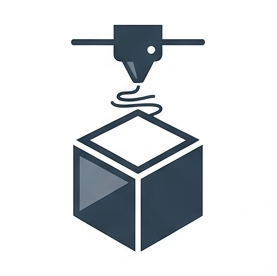
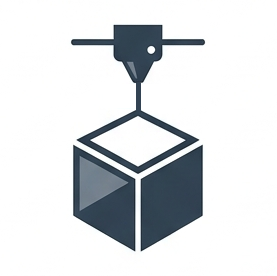
Actualiza el icono de Impresión 3D en CÓDEX.

Changed region(s): [[0.4043, 0.2899, 0.6065, 0.4348]]

diff --git a/asistencia-ia.html b/asistencia-ia.html
@@ -4,9 +4,9 @@
     <meta charset="utf-8" />
     <meta name="viewport" content="width=device-width, initial-scale=1" />
     <title>T·I·D·Ahub · Declaración responsable · Cursor</title>
-    <link rel="stylesheet" href="./styles.css?v=1.10.17" />
+    <link rel="stylesheet" href="./styles.css?v=1.10.18" />
     <script>
-      window.MYWEB_ASSET_V = "1.10.17";
+      window.MYWEB_ASSET_V = "1.10.18";
     </script>
     <script>
       (function () {
@@ -15,7 +15,7 @@
         document.head.appendChild(s);
       })();
     </script>
-    <script src="./brand-logo-sync.js?v=1.10.17" defer></script>
+    <script src="./brand-logo-sync.js?v=1.10.18" defer></script>
   </head>
   <body class="theme-light privacy-page ai-assist-page">
     <header>
@@ -36,7 +36,7 @@
           <div class="header-nav-buttons">
             <a
               class="home-btn header-home-btn privacy-header-back"
-              href="./index.html?v=1.10.17"
+              href="./index.html?v=1.10.18"
               aria-label="Volver a inicio"
               id="ai-assist-back-home"
             >← VOLVER</a>
@@ -152,11 +152,11 @@
           <span class="footer-sep" aria-hidden="true">|</span>
           <span>PhD.Eng. Francisco Carnero Rodríguez</span>
           <span class="footer-sep" aria-hidden="true">|</span>
-          <span id="site-version">v1.10.17</span>
+          <span id="site-version">v1.10.18</span>
           <span class="footer-sep" aria-hidden="true">|</span>
-          <a href="./privacidad.html?v=1.10.17" class="footer-privacy-link">Privacidad y protección de datos</a>
+          <a href="./privacidad.html?v=1.10.18" class="footer-privacy-link">Privacidad y protección de datos</a>
           <span class="footer-sep" aria-hidden="true">|</span>
-          <a href="./asistencia-ia.html?v=1.10.17" class="footer-ai-link">Asistencia IA</a>
+          <a href="./asistencia-ia.html?v=1.10.18" class="footer-ai-link">Asistencia IA</a>
         </div>
       </div>
     </footer>
@@ -193,7 +193,7 @@
           applyMeta();
         }
         function loadData(bust, dataJsText) {
-          bust = String(bust || window.MYWEB_ASSET_V || "1.10.17");
+          bust = String(bust || window.MYWEB_ASSET_V || "1.10.18");
           window.MYWEB_ASSET_V = bust;
           if (typeof window.MYWEB_wireVersionedLinks === "function") {
             window.MYWEB_wireVersionedLinks(bust);
@@ -224,7 +224,7 @@
           start(d.version || window.MYWEB_ASSET_V, d.dataJsText || "");
         });
         setTimeout(function () {
-          start(window.MYWEB_ASSET_V || "1.10.17", window.__MYWEB_DATA_JS_TEXT__ || "");
+          start(window.MYWEB_ASSET_V || "1.10.18", window.__MYWEB_DATA_JS_TEXT__ || "");
         }, 2500);
       })();
     </script>

diff --git a/privacidad.html b/privacidad.html
@@ -4,9 +4,9 @@
     <meta charset="utf-8" />
     <meta name="viewport" content="width=device-width, initial-scale=1" />
     <title>T·I·D·Ahub · Privacidad</title>
-    <link rel="stylesheet" href="./styles.css?v=1.10.17" />
+    <link rel="stylesheet" href="./styles.css?v=1.10.18" />
     <script>
-      window.MYWEB_ASSET_V = "1.10.17";
+      window.MYWEB_ASSET_V = "1.10.18";
     </script>
     <script>
       (function () {
@@ -15,7 +15,7 @@
         document.head.appendChild(s);
       })();
     </script>
-    <script src="./brand-logo-sync.js?v=1.10.17" defer></script>
+    <script src="./brand-logo-sync.js?v=1.10.18" defer></script>
   </head>
   <body class="theme-light privacy-page">
     <header>
@@ -36,7 +36,7 @@
           <div class="header-nav-buttons">
             <a
               class="home-btn header-home-btn privacy-header-back"
-              href="./index.html?v=1.10.17"
+              href="./index.html?v=1.10.18"
               aria-label="Volver a inicio"
               id="privacy-back-home"
             >← VOLVER</a>
@@ -245,11 +245,11 @@
           <span class="footer-sep" aria-hidden="true">|</span>
           <span>PhD.Eng. Francisco Carnero Rodríguez</span>
           <span class="footer-sep" aria-hidden="true">|</span>
-          <span id="site-version">v1.10.17</span>
+          <span id="site-version">v1.10.18</span>
           <span class="footer-sep" aria-hidden="true">|</span>
-          <a href="./privacidad.html?v=1.10.17" class="footer-privacy-link">Privacidad y protección de datos</a>
+          <a href="./privacidad.html?v=1.10.18" class="footer-privacy-link">Privacidad y protección de datos</a>
           <span class="footer-sep" aria-hidden="true">|</span>
-          <a href="./asistencia-ia.html?v=1.10.17" class="footer-ai-link">Asistencia IA</a>
+          <a href="./asistencia-ia.html?v=1.10.18" class="footer-ai-link">Asistencia IA</a>
         </div>
       </div>
     </footer>
@@ -287,7 +287,7 @@
           applyMeta();
         }
         function loadData(bust, dataJsText) {
-          bust = String(bust || window.MYWEB_ASSET_V || "1.10.17");
+          bust = String(bust || window.MYWEB_ASSET_V || "1.10.18");
           window.MYWEB_ASSET_V = bust;
           if (typeof window.MYWEB_wireVersionedLinks === "function") {
             window.MYWEB_wireVersionedLinks(bust);
@@ -318,7 +318,7 @@
           start(d.version || window.MYWEB_ASSET_V, d.dataJsText || "");
         });
         setTimeout(function () {
-          start(window.MYWEB_ASSET_V || "1.10.17", window.__MYWEB_DATA_JS_TEXT__ || "");
+          start(window.MYWEB_ASSET_V || "1.10.18", window.__MYWEB_DATA_JS_TEXT__ || "");
         }, 2500);
 
         function isVerticallyScrollable(el) {

diff --git a/index.html b/index.html
@@ -4,9 +4,9 @@
     <meta charset="utf-8" />
     <meta name="viewport" content="width=device-width, initial-scale=1" />
     <title>T·I·D·Ahub</title>
-    <link rel="stylesheet" href="./styles.css?v=1.10.17" />
+    <link rel="stylesheet" href="./styles.css?v=1.10.18" />
     <script>
-      window.MYWEB_ASSET_V = "1.10.17";
+      window.MYWEB_ASSET_V = "1.10.18";
     </script>
     <script>
       (function () {
@@ -231,11 +231,11 @@
           <span class="footer-sep" aria-hidden="true">|</span>
           <span>PhD.Eng. Francisco Carnero Rodríguez</span>
           <span class="footer-sep" aria-hidden="true">|</span>
-          <span id="site-version">v1.10.17</span>
+          <span id="site-version">v1.10.18</span>
           <span class="footer-sep" aria-hidden="true">|</span>
-          <a href="./privacidad.html?v=1.10.17" class="footer-privacy-link">Privacidad y protección de datos</a>
+          <a href="./privacidad.html?v=1.10.18" class="footer-privacy-link">Privacidad y protección de datos</a>
           <span class="footer-sep" aria-hidden="true">|</span>
-          <a href="./asistencia-ia.html?v=1.10.17" class="footer-ai-link">Asistencia IA</a>
+          <a href="./asistencia-ia.html?v=1.10.18" class="footer-ai-link">Asistencia IA</a>
         </div>
       </div>
     </footer>
@@ -280,7 +280,7 @@
             });
         }
         function bootAssets(bust, dataJsText) {
-          bust = String(bust || window.MYWEB_ASSET_V || "1.10.17");
+          bust = String(bust || window.MYWEB_ASSET_V || "1.10.18");
           window.MYWEB_ASSET_V = bust;
           if (typeof window.MYWEB_wireVersionedLinks === "function") {
             window.MYWEB_wireVersionedLinks(bust);
@@ -324,7 +324,7 @@
         });
         // Si version-boot falla o tarda, no bloquear la web.
         setTimeout(function () {
-          start(window.MYWEB_ASSET_V || "1.10.17", window.__MYWEB_DATA_JS_TEXT__ || "");
+          start(window.MYWEB_ASSET_V || "1.10.18", window.__MYWEB_DATA_JS_TEXT__ || "");
         }, 2500);
       })();
     </script>

diff --git a/data.js b/data.js
@@ -11,7 +11,7 @@ window.MYWEB_DATA = {
     El pie muestra "v" + version al cargar.
   */
   siteMeta: {
-    version: "1.10.17",
+    version: "1.10.18",
     updated: "2026-11-06",
     assetBust: "",
     /* Temporal: lazo negro (marca de agua) en INICIO. Pon false para quitarlo. */

diff --git a/versions.md b/versions.md
@@ -1,6 +1,6 @@
 # Historial de versiones — T·I·D·A hub
 
-Registro de modificaciones y mejoras desde la publicación inicial (**1.0**) hasta la versión actual del pie (`data.js` → `siteMeta.version`, hoy **1.10.17**).
+Registro de modificaciones y mejoras desde la publicación inicial (**1.0**) hasta la versión actual del pie (`data.js` → `siteMeta.version`, hoy **1.10.18**).
 
 Formato: **MAJOR.MINOR.PATCH** (desde 1.1.0). Fuente de verdad: `data.js`. Documentación alineada en `README.md`, `github_TIDAhub.md`, `content/README.md` e `#_Informe/Informe_MyWeb.tex`.
 
@@ -811,6 +811,10 @@ Cambios publicados en `main` tras 1.0 y consolidados conceptualmente en la líne
 
 - Mientras se itera Blockchain y Big Data hasta darla por terminada, los retoques de esa sección se publican **sin** subir `siteMeta.version` (un solo bump al cerrar el WIP). Para forzar recarga de CSS/JS se usa `siteMeta.assetBust` (p. ej. `1.9.33-1`) sin cambiar el número del pie.
 
+## 1.10.18
+
+- CÓDEX: actualiza el icono de Diseño e Impresión 3D (`icons/3D.png`).
+
 ## 1.10.17
 
 - DOCENCIA: quita cabecera «SELECCIONA» y botón de plegado; quedan solo los selectores.
@@ -1105,3 +1109,4 @@ Nota: **1.1.16** y **1.1.17** fueron bumps por contenido; **1.5.1** fue el últi
 | **1.10.15** | LEGISLACIÓN: mazo redibujado al estilo carrete |
 | **1.10.16** | DOCENCIA: SELECCIONA: en lugar de SELECCIONA... |
 | **1.10.17** | DOCENCIA: sin cabecera SELECCIONA ni plegado |
+| **1.10.18** | CÓDEX: icono Impresión 3D actualizado |
